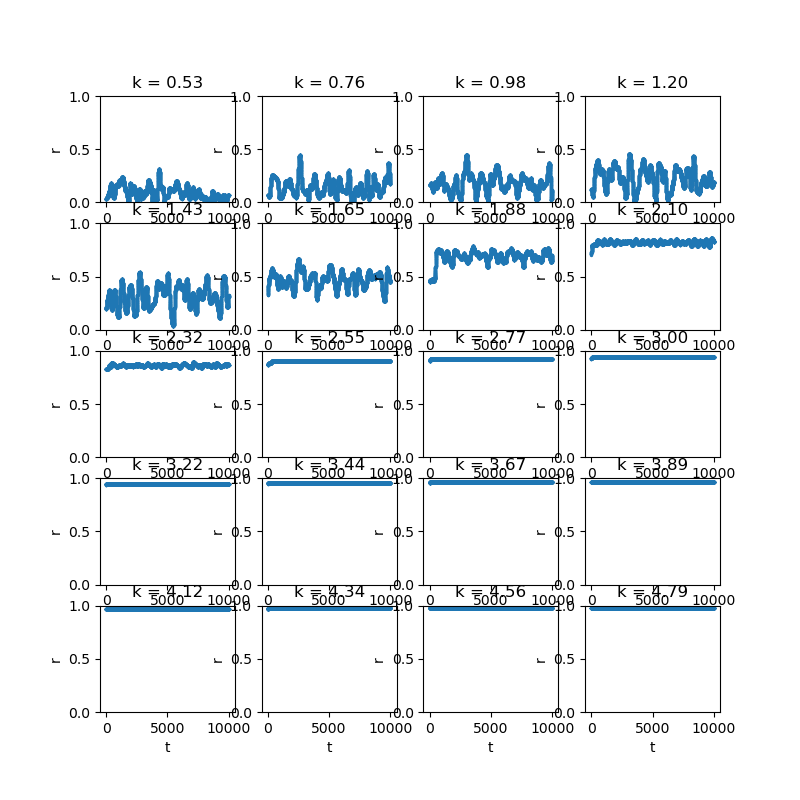
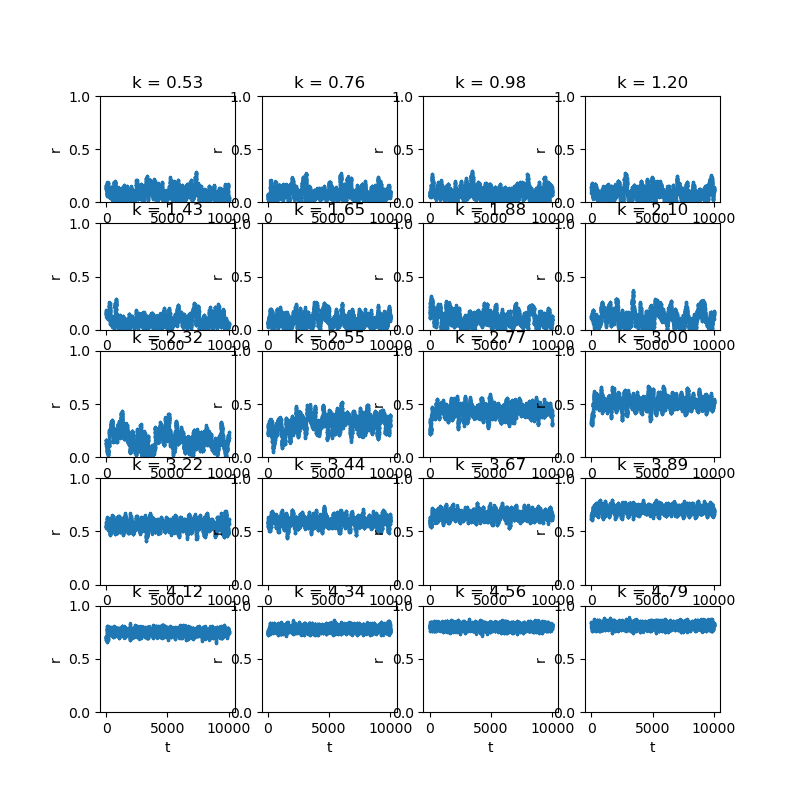
tried to include normal and cauchy, but the empirical values do not match at all.

diff --git a/kuramoto_model.py b/kuramoto_model.py
@@ -3,7 +3,10 @@ from scipy.integrate import solve_ivp
 import matplotlib.pyplot as plt
 import matplotlib.animation as animation
 
-def initialize_oscillators(n:int, sigma:float = 1.0, concentration:str = "dispersed"):
+def initialize_oscillators(n:int, sigma:float = 1.0, concentration:str = "dispersed", distribution:str = "cauchy"):
+    """
+    Initializes n oscillators, either dispersed or concentrated, from a cauchy or normal distribution.
+    """
     #draw theta from uniform distribution
     if concentration == "dispersed":
         thetas = np.random.uniform(0, 2*np.pi, n)
@@ -12,8 +15,14 @@ def initialize_oscillators(n:int, sigma:float = 1.0, concentration:str = "disper
     else:
         raise ValueError("Invalid concentration value. You must input \"dispersed\" or \"concentrated\"")
     
-    #draw omega from normal distribution
-    omegas = np.random.normal(0, sigma, n)
+    if distribution == "cauchy":
+        #draw omega from normal distribution
+        omegas = np.random.standard_cauchy(n)
+    elif distribution == "normal":
+        #draw omega from normal distribution
+        omegas = np.random.normal(0, sigma, n)
+    else:
+        raise ValueError("Invalid distribution. Enter \"normal\" or \"cauchy\"")
 
     return (thetas, omegas)
 
@@ -41,14 +50,15 @@ def pairwise_odes(t, thetas, omegas, K):
 
 
 #parameters:
-K = 1
+K = 5
 n = 100
 sigma = 1
 dt = 0.01
 conc = "dispersed"
+distr = "normal"
 
 #initializing oscillators
-thetas, omegas = initialize_oscillators(n, sigma, concentration=conc)
+thetas, omegas = initialize_oscillators(n, sigma, concentration=conc, distribution=distr)
 
 #plots:
 fig, (ax_phase, ax_r_time,) = plt.subplots(1, 2, figsize=(12, 6))
@@ -113,8 +123,10 @@ def update(frame:int):
     #ls_order_param.pop(0)
     ls_t.append(frame*dt)
     line_order_param.set_data(ls_t, ls_order_param)
+    #ax_r_time.set_xlim(0, max(ls_t)) if max(ls_t) > 1 else 1
     ax_r_time.relim()
     ax_r_time.autoscale_view()
+    #fig.canvas.draw_idle()
 	
     return [scatter, centroid_line, centroid_point, line_order_param]
 
@@ -123,69 +135,5 @@ def animate_circle():
     plt.tight_layout()
     plt.show()
 
-#animate_circle()
-
-
-
-#BIFURCATION DIAGRAM
-def prob_distribution(omega, sigma:float=sigma):
-    return (1 / np.sqrt(2*np.pi*(sigma**2))) * np.exp(-(omega**2) / (2 * sigma**2))
-
-g_zero = prob_distribution(0)
-
-k_critical = 2 / (np.pi * g_zero) #this is the theoretical k critical value
-print(k_critical)
-kmin = k_critical/3
-kmax = 3*k_critical
-print(f"kmin, kmax = ({kmin}, {kmax})")
-
-#we sample 20 values of k between kmin and kmax:
-kvalues = np.linspace(kmin, kmax, 20)
-print(kvalues)
-
-#for each of these values of k, we need to find r_inf
-#K = kvalues[0]
-#animate_circle()
-#we have r = np.sqrt(1-k_critical/k) for k > kcritical (this is the analytical solution)
-
-#plotting theoretical values:
-ranges = np.linspace(0, 5, 100)
-to_plot = []
-for k in ranges:
-    if k < k_critical:
-        to_plot.append(0)
-    else:
-        to_plot.append(np.sqrt(1 - k_critical/k))
-arr_to_plot = np.array(to_plot)
-
-#empirical:
-def integrate_for_r(num_iters, K, dt:float = dt):
-    theta, omega = initialize_oscillators(1000, sigma)
-    thetas_dot = mean_field_odes(1, theta, omega, K)
-    rs = []
-    for i in range(num_iters):
-        theta = theta + dt * thetas_dot
-        r = np.abs((1/len(theta)) * np.sum(np.exp(theta * 1j))) #the absolute value is the modulus
-        rs.append(r)
-    #print(len(rs[-11:-1]))
-    return np.sum(np.array(rs[-11:-1])) / 10
-
-avg_rs_for_k = []
-for k in ranges:
-    rs = integrate_for_r(1000, k)
-    avg_rs_for_k.append(rs)
-
-#print(avg_rs_for_k)
-
-#print(integrate_for_r(1000, 0.5))
-#print(integrate_for_r(1000, 1))
-#print(integrate_for_r(1000, 2))
-#print(integrate_for_r(1000, 5))
-
-fig, ax_bifurcation = plt.subplots(1, 1, figsize=(12, 6))
-plt.plot(ranges, arr_to_plot, label = "Theoretical")
-plt.scatter(ranges, np.array(avg_rs_for_k), label = "Empirical", color = "red")
-plt.title("Bifurcation Diagram")
-plt.xlabel("Coupling Strength (K)")
-plt.ylabel("Order Parameter (r)")
-#plt.show()
+if __name__ == "__main__":
+    animate_circle()

diff --git a/kuramoto_numerical.py b/kuramoto_numerical.py
@@ -4,15 +4,20 @@ import matplotlib.pyplot as plt
 import matplotlib.animation as animation
 
 #from kuramoto_model import initialize_oscillators, mean_field_odes, pairwise_odes, other_params, update, animate_circle, sigma, n, dt, conc
-from kuramoto_model import sigma, n, dt, conc, initialize_oscillators, mean_field_odes
+from kuramoto_model import sigma, n, dt, conc, distr, initialize_oscillators, mean_field_odes
 
 #BIFURCATION DIAGRAM
-def prob_distribution(omega, sigma:float=sigma):
-    return (1 / np.sqrt(2*np.pi*(sigma**2))) * np.exp(-(omega**2) / (2 * sigma**2))
+def prob_distribution(omega, sigma:float=sigma, dist:str = "cauchy"):
+    if dist == "normal":
+        return (1 / np.sqrt(2*np.pi*(sigma**2))) * np.exp(-(omega**2) / (2 * sigma**2))
+    elif dist == "cauchy":
+        return 1
+    else:
+        raise ValueError("Invalid distribution. Enter \"normal\" or \"cauchy\"")
 
-g_zero = prob_distribution(0)
+g_zero = prob_distribution(0, dist=distr)
 
-k_critical = 2 / (np.pi * g_zero) #this is the theoretical k critical value
+k_critical = 2 / (np.pi * g_zero) #this is the theoretical k critical value for any distribution
 print(k_critical)
 kmin = k_critical/3
 kmax = 3*k_critical
@@ -88,18 +93,38 @@ print(stds)
 
 
 #this is solving it analytically
-to_plot = []
-for k in kvalues:
-    if k >= k_critical:
-        to_plot.append(np.sqrt(1 - k_critical/k))
-    else:
-        to_plot.append(0)
-arr_to_plot = np.array(to_plot)
-print(to_plot)
-print(len(to_plot))
+#need this because need it for the rinf theoretical computations
+def normal_second_derivative(omega, sigma:float = sigma): 
+    return ((omega**2)/(sigma**2) - 1) * (1/(np.sqrt(2*np.pi*sigma**6))) * np.exp(-(omega**2)/(2*sigma**2))
 
-#if we were to solve the function numerically, we have the 1 = integral
+if distr == "cauchy":
+    to_plot = []
+    for k in kvalues:
+        if k >= k_critical:
+            to_plot.append(np.sqrt(1 - k_critical/k))
+        else:
+            to_plot.append(0)
+    arr_to_plot = np.array(to_plot)
+    #print(to_plot)
+    #print(len(to_plot))
 
+elif distr == "normal":
+    to_plot = []
+    for k in kvalues:
+        if k < k_critical:
+            to_plot.append(0)
+        else:
+            mu = (k - k_critical)/k_critical
+            r = np.sqrt(16/(np.pi*(k_critical**3))) * np.sqrt(mu / (-1*normal_second_derivative(0)))
+            to_plot.append(r)
+    arr_to_plot = np.array(to_plot)
+
+
+#if we were to solve the function numerically, we have the 1 = integral, so integral - 1 = 0 and we can use newtons method
+def distribution(w):
+    pass
+def integral(theta, k, r):
+    return ((np.cos(theta))**2) *  distribution(k*r*np.sin(theta))
     
 fig, ax_bifurcation = plt.subplots(1, 1, figsize=(12, 6))
 ax_bifurcation.plot(kvalues, arr_to_plot, label = "Theoretical")
